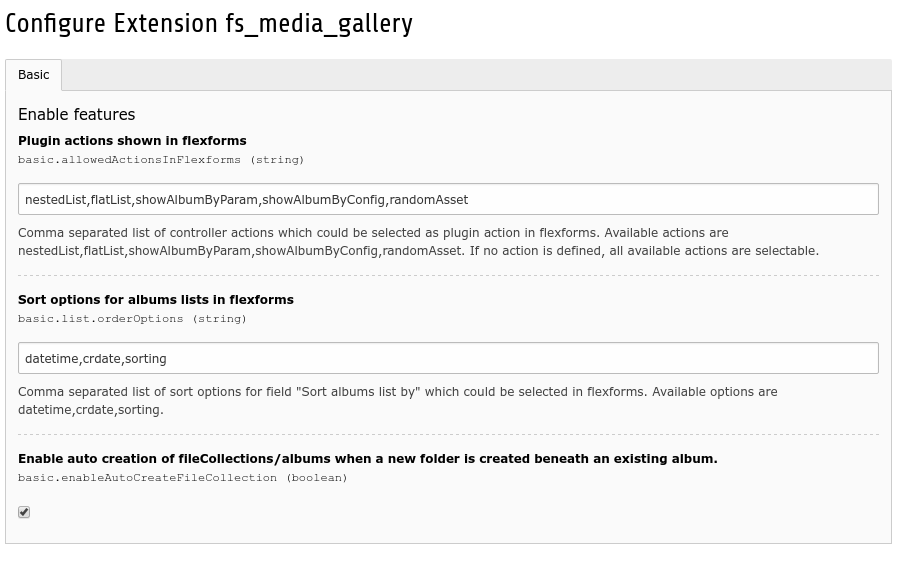
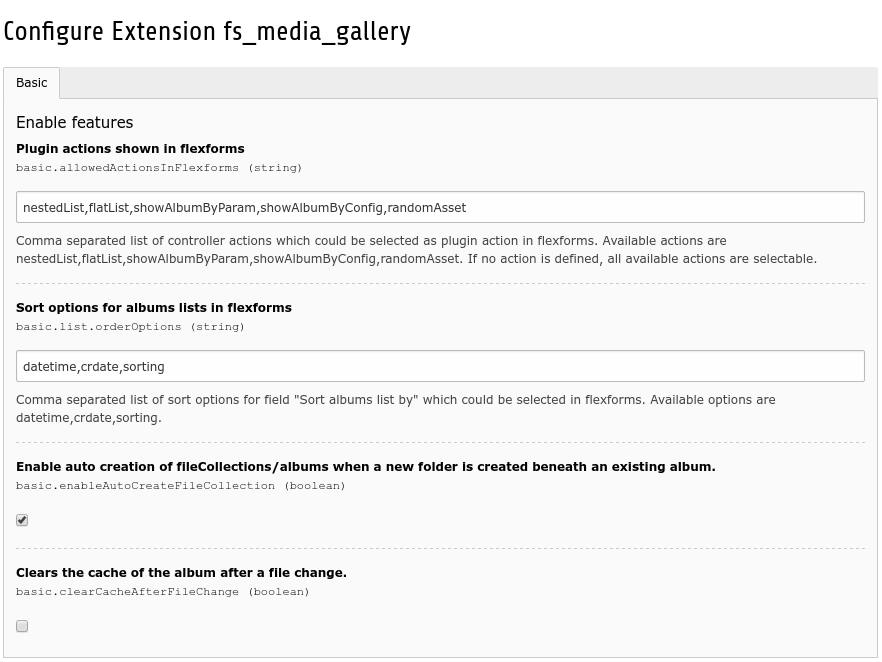
[FEATURE] Clear cache after file changed

Changed region(s): [[0.0, 0.0904, 0.9184, 0.9645], [0.9796, 0.1507, 1.0, 0.9645], [0.0, 0.0301, 0.4592, 0.0904]]

diff --git a/Classes/Hooks/FileChangedSlot.php b/Classes/Hooks/FileChangedSlot.php
@@ -1,0 +1,123 @@
+<?php
+namespace MiniFranske\FsMediaGallery\Hooks;
+
+/***************************************************************
+ *  Copyright notice
+ *  (c) 2016 Frans Saris <franssaris@gmail.com>
+ *  All rights reserved
+ *  This script is part of the TYPO3 project. The TYPO3 project is
+ *  free software; you can redistribute it and/or modify
+ *  it under the terms of the GNU General Public License as published by
+ *  the Free Software Foundation; either version 2 of the License, or
+ *  (at your option) any later version.
+ *  The GNU General Public License can be found at
+ *  http://www.gnu.org/copyleft/gpl.html.
+ *  This script is distributed in the hope that it will be useful,
+ *  but WITHOUT ANY WARRANTY; without even the implied warranty of
+ *  MERCHANTABILITY or FITNESS FOR A PARTICULAR PURPOSE.  See the
+ *  GNU General Public License for more details.
+ *  This copyright notice MUST APPEAR in all copies of the script!
+ ***************************************************************/
+
+use TYPO3\CMS\Core\Resource\FileInterface;
+use TYPO3\CMS\Core\Resource\Folder;
+
+/**
+ * Slots that pick up signals after (re)moving folders to update mediagallery record (sys_file_collection)
+ */
+class FileChangedSlot implements \TYPO3\CMS\Core\SingletonInterface
+{
+
+    protected $folderMapping = array();
+
+    /**
+     * @var \MiniFranske\FsMediaGallery\Service\Utility
+     */
+    protected $utilityService;
+
+    /**
+     * __contruct
+     */
+    public function __construct()
+    {
+        $this->utilityService = \TYPO3\CMS\Core\Utility\GeneralUtility::makeInstance('MiniFranske\\FsMediaGallery\\Service\\Utility');
+    }
+
+    /**
+     * Slot for postFile add
+     *
+     * @param FileInterface $file
+     * @param Folder $targetFolder
+     */
+    public function postFileAdd(FileInterface $file, Folder $targetFolder)
+    {
+        $this->utilityService->clearMediaGalleryPageCache($targetFolder);
+    }
+
+    /**
+     * Slot for postFileCreate
+     *
+     * @param $newFileIdentifier
+     * @param Folder $targetFolder
+     */
+    public function postFileCreate($newFileIdentifier, Folder $targetFolder)
+    {
+        $this->utilityService->clearMediaGalleryPageCache($targetFolder);
+    }
+
+    /**
+     * Slot for postFileCopy
+     *
+     * @param FileInterface $file
+     * @param Folder $targetFolder
+     */
+    public function postFileCopy(FileInterface $file, Folder $targetFolder)
+    {
+        $this->utilityService->clearMediaGalleryPageCache($targetFolder);
+    }
+
+    /**
+     * Slot for postFileMove
+     *
+     * @param FileInterface $file
+     * @param Folder $targetFolder
+     * @param Folder $originalFolder
+     */
+    public function postFileMove(FileInterface $file, Folder $targetFolder, Folder $originalFolder)
+    {
+        $this->utilityService->clearMediaGalleryPageCache($originalFolder);
+        $this->utilityService->clearMediaGalleryPageCache($targetFolder);
+    }
+
+    /**
+     * Slot for postfileDelete
+     *
+     * @param FileInterface $file
+     */
+    public function postFileDelete(FileInterface $file)
+    {
+        $this->utilityService->clearMediaGalleryPageCache($file->getParentFolder());
+    }
+
+    /**
+     * Slot for postFileRename
+     *
+     * @param FileInterface $file
+     * @param $sanitizedTargetFileName
+     */
+    public function postFileRename(FileInterface $file, $sanitizedTargetFileName)
+    {
+        $this->utilityService->clearMediaGalleryPageCache($file->getParentFolder());
+    }
+
+    /**
+     * Slot for postFileReplace
+     *
+     * @param FileInterface $file
+     * @param $localFilePath
+     */
+    public function postFileReplace(FileInterface $file, $localFilePath)
+    {
+        $this->utilityService->clearMediaGalleryPageCache($file->getParentFolder());
+    }
+}

diff --git a/ext_localconf.php b/ext_localconf.php
@@ -3,6 +3,8 @@ defined('TYPO3_MODE') || die();
 
 $boot = function ($packageKey) {
 
+    $conf = unserialize($GLOBALS['TYPO3_CONF_VARS']['EXT']['extConf'][$packageKey]);
+
     \TYPO3\CMS\Extbase\Utility\ExtensionUtility::configurePlugin(
         'MiniFranske.' . $packageKey,
         'Mediagallery',
@@ -82,7 +84,60 @@ $boot = function ($packageKey) {
         'postFolderRename'
     );
 
-    $conf = unserialize($GLOBALS['TYPO3_CONF_VARS']['EXT']['extConf'][$packageKey]);
+    // *** Register file signals to clear the cache when enabled in extension setteings ***
+    if (!empty($conf['clearCacheAfterFileChange']) && $conf['clearCacheAfterFileChange']) {
+
+        $signalSlotDispatcher->connect(
+            'TYPO3\\CMS\\Core\\Resource\\ResourceStorage',
+            \TYPO3\CMS\Core\Resource\ResourceStorageInterface::SIGNAL_PostFileAdd,
+            'MiniFranske\\FsMediaGallery\\Hooks\\FileChangedSlot',
+            'postFileAdd'
+        );
+
+        $signalSlotDispatcher->connect(
+            'TYPO3\\CMS\\Core\\Resource\\ResourceStorage',
+            \TYPO3\CMS\Core\Resource\ResourceStorageInterface::SIGNAL_PostFileCreate,
+            'MiniFranske\\FsMediaGallery\\Hooks\\FileChangedSlot',
+            'postFileCreate'
+        );
+
+        $signalSlotDispatcher->connect(
+            'TYPO3\\CMS\\Core\\Resource\\ResourceStorage',
+            \TYPO3\CMS\Core\Resource\ResourceStorageInterface::SIGNAL_PostFileCopy,
+            'MiniFranske\\FsMediaGallery\\Hooks\\FileChangedSlot',
+            'postFileCopy'
+        );
+
+        $signalSlotDispatcher->connect(
+            'TYPO3\\CMS\\Core\\Resource\\ResourceStorage',
+            \TYPO3\CMS\Core\Resource\ResourceStorageInterface::SIGNAL_PostFileMove,
+            'MiniFranske\\FsMediaGallery\\Hooks\\FileChangedSlot',
+            'postFileMove'
+        );
+
+        $signalSlotDispatcher->connect(
+            'TYPO3\\CMS\\Core\\Resource\\ResourceStorage',
+            \TYPO3\CMS\Core\Resource\ResourceStorageInterface::SIGNAL_PostFileDelete,
+            'MiniFranske\\FsMediaGallery\\Hooks\\FileChangedSlot',
+            'postFileDelete'
+        );
+
+        $signalSlotDispatcher->connect(
+            'TYPO3\\CMS\\Core\\Resource\\ResourceStorage',
+            \TYPO3\CMS\Core\Resource\ResourceStorageInterface::SIGNAL_PostFileRename,
+            'MiniFranske\\FsMediaGallery\\Hooks\\FileChangedSlot',
+            'postFileRename'
+        );
+
+        $signalSlotDispatcher->connect(
+            'TYPO3\\CMS\\Core\\Resource\\ResourceStorage',
+            \TYPO3\CMS\Core\Resource\ResourceStorageInterface::SIGNAL_PostFileReplace,
+            'MiniFranske\\FsMediaGallery\\Hooks\\FileChangedSlot',
+            'postFileReplace'
+        );
+    }
+
+
     if (!empty($conf['enableAutoCreateFileCollection']) && $conf['enableAutoCreateFileCollection']) {
         $signalSlotDispatcher->connect(
             'TYPO3\\CMS\\Core\\Resource\\ResourceStorage',

diff --git a/Classes/Service/Utility.php b/Classes/Service/Utility.php
@@ -27,6 +27,7 @@ namespace MiniFranske\FsMediaGallery\Service;
 use \TYPO3\CMS\Backend\Utility\BackendUtility;
 use TYPO3\CMS\Core\DataHandling\DataHandler;
 use TYPO3\CMS\Core\Resource\Folder;
+use TYPO3\CMS\Core\Resource\FolderInterface;
 use TYPO3\CMS\Core\Utility\GeneralUtility;
 
 /**
@@ -65,9 +66,9 @@ class Utility implements \TYPO3\CMS\Core\SingletonInterface
     /**
      * Clear pageCache defined at the storage of the collection/album
      *
-     * @param Folder $folder
+     * @param FolderInterface $folder
      */
-    public function clearMediaGalleryPageCache(Folder $folder)
+    public function clearMediaGalleryPageCache(FolderInterface $folder)
     {
         /** @var DataHandler $tce */
         $tce = GeneralUtility::makeInstance('TYPO3\\CMS\\Core\\DataHandling\\DataHandler');

diff --git a/Documentation/Configuration/ExtensionManager/Index.rst b/Documentation/Configuration/ExtensionManager/Index.rst
@@ -26,6 +26,7 @@ To set this configuration, switch to the Extension Manager, search for the exten
    :ref:`allowedActionsInFlexforms <extConf.tx_fsmedia_gallery.allowedActionsInFlexforms>`           :ref:`t3tsref:data-type-list`    nestedList,flatList,showAlbumByParam,showAlbumByConfig,randomAsset
    :ref:`list.orderOptions <extConf.tx_fsmedia_gallery.list.orderOptions>`                           :ref:`t3tsref:data-type-list`    datetime,crdate,sorting
    :ref:`enableAutoCreateFileCollection <extConf.tx_fsmedia_gallery.enableAutoCreateFileCollection>` :ref:`t3tsref:data-type-boolean` true
+   :ref:`clearCacheAfterFileChange <extConf.tx_fsmedia_gallery.clearCacheAfterFileChange>`           :ref:`t3tsref:data-type-boolean` false
    ================================================================================================= ===============================  ===================================================================
 
 
@@ -70,6 +71,16 @@ enableAutoCreateFileCollection
 """"""""""""""""""""""""""""""
 
 Enables auto creation of fileCollection(s)/album(s) of a folder when a new folder is created beneath an existing fileCollection/album.
+
+":ref:`Display mode <flexforms.mediagallery.tabs.general.displayMode>`" in flexforms.
+
+.. _extConf.tx_fsmedia_gallery.clearCacheAfterFileChange:
+
+clearCacheAfterFileChange
+"""""""""""""""""""""""""
+
+Clears the cache of the album after a file change. Set on false by default due that the cache will be cleared multiple times
+if more files will be added.
 
 ":ref:`Display mode <flexforms.mediagallery.tabs.general.displayMode>`" in flexforms.
 
